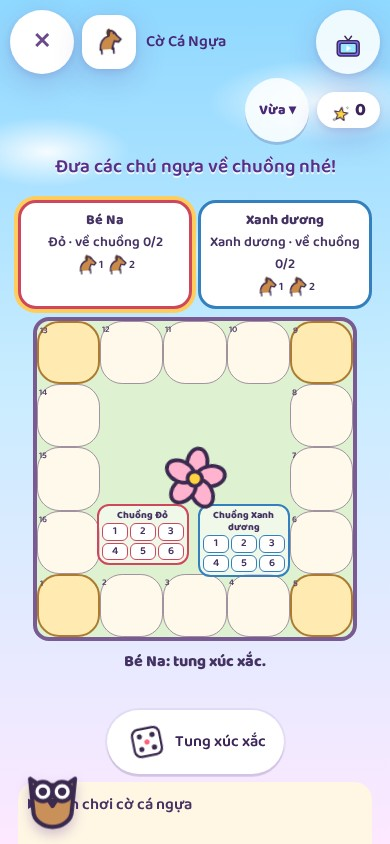
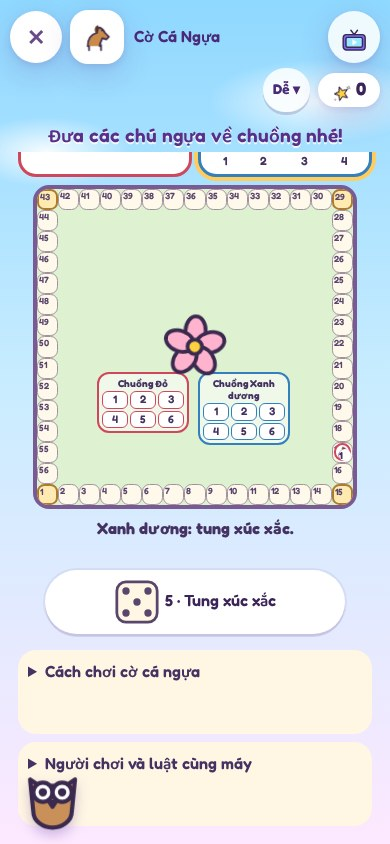
Add current folk-game photos, verified voice evidence and autoplay regression fixtures

diff --git a/docs/voice-recording-delta/README.md b/docs/voice-recording-delta/README.md
@@ -6,4 +6,4 @@ The recording job uses the shared registry: Azure female/male English and Vietna
 
 For the working-branch review, dispatch the already registered FPT arcade workflow with an inventory input; it calls the generic reviewed-public workflow from the same commit. Without an inventory, the legacy arcade workflow retains its existing behavior. The public workflow is also directly dispatchable once registered on main. Work/release/voices branches only; never main. Shared provider locking prevents simultaneous FPT batches. Results and partial originals are retained even if recording stops; a moved branch refuses an automatic update and leaves a review artifact.
 
-Current goat/Northern batch:34 complete fixed public lines (17 English,17 Vietnamese) plus4 reviewed English fragments for mixed-language playback;17 missing Lê Minh units,764 Vietnamese characters;76 missing Azure files (including the English fragments). The fragments have different speech IDs from the complete lines and are intentional, not duplicate recordings. New recordings, final audio decode/coverage and human listening are not yet complete. No provider key enters the browser, source, inventory or artifact. Family questions, answers and child names are excluded.
+Current goat/Northern batch:34 complete fixed public lines (17 English,17 Vietnamese) plus4 reviewed English fragments for mixed-language playback;17 missing Lê Minh units,764 Vietnamese characters;76 missing Azure files (including the English fragments). The fragments have different speech IDs from the complete lines and are intentional, not duplicate recordings. Recording run40481288711 completed successfully at source bae2862c2. Commit842cb7ac6 adds76 Azure files and17 Lê Minh files. All93 delivery assets were fully decoded and verified32kbps/16kHz/mono; full voice coverage and provider routing passed. Originals and receipts are retained under temp/fpt-public-delta. Human listening remains pending. No provider key enters the browser, source, inventory or artifact. Family questions, answers and child names are excluded.

diff --git a/docs/goat-review-20261027/README.md b/docs/goat-review-20261027/README.md
@@ -4,4 +4,4 @@
 
 The haystack guessing puzzle is replaced with children taking turns as a virtual blindfolded seeker inside a circle. Listen gives a real animal call plus accessible direction/range cues; guide the seeker with 64px direction buttons and catch only when close. A caught friend becomes the next seeker. Three rounds; no time limit, losing state or physical blindfold requirement. Original SVG child illustrations; English and Vietnamese.
 
-Pure core tests passed5/5 in the helper audit. Browser check passes110s: three rounds completed using visible controls in all six device/language layouts, 64px targets, nearby-only catches and gameplay-plan cleanup. Captures reviewed on phone/tablet/computer in both languages. Additional keyboard/listening review and recorded speech coverage remain pending. New fixed public speech is frozen in docs/voice-recording-delta/goat-northern-20261027.json for missing-only Azure/FPT recording. Do not claim these new lines are recorded until the provider job and decode/coverage checks pass.
+Pure core tests passed5/5 in the helper audit. Browser check passes110s: three rounds completed using visible controls in all six device/language layouts, 64px targets, nearby-only catches and gameplay-plan cleanup. Captures reviewed on phone/tablet/computer in both languages. Additional keyboard/listening review and recorded speech coverage remain pending. New fixed public speech is recorded and verified by run40481288711; the batch is frozen in docs/voice-recording-delta/goat-northern-20261027.json for missing-only Azure/FPT recording. Provider routing, full decode and voice coverage passed; human listening remains pending.

diff --git a/docs/tienlen-north-review-20261027/README.md b/docs/tienlen-north-review-20261027/README.md
@@ -8,6 +8,6 @@ Selected Northern conventions: spades < clubs < diamonds < hearts; singles and s
 
 This remains a child-friendly adaptation: no betting, final-two/four-of-a-kind fines or disqualification. The game now explicitly explains that limit. Regional house rules vary; do not describe this as every Northern variant.
 
-Sources reviewed: https://vi.wikipedia.org/wiki/Ti%E1%BA%BFn_l%C3%AAn (Northern section, article itself flags lack of citations), https://www.pagat.com/climbing/thirteen.html (general/Southern context, not independent proof of Northern specifics). Independent Northern source confirmation is still pending, as is human rules review. New corrected introduction needs Azure/FPT recording before release.
+Sources reviewed: https://vi.wikipedia.org/wiki/Ti%E1%BA%BFn_l%C3%AAn (Northern section, article itself flags lack of citations), https://www.pagat.com/climbing/thirteen.html (general/Southern context, not independent proof of Northern specifics). Independent Northern source confirmation is still pending, as is human rules review. The corrected introduction and required English mixed-language fragments were recorded and fully decoded in run40481288711; human listening remains pending.
 
 Dedicated tests cover every ordinary pair colour combination, all twos suit comparisons, matching/mismatched triples and runs, quads cutting twos, Southern compatibility and independent bot table modes.

diff --git a/docs/autoplay-review-20261027/README.md b/docs/autoplay-review-20261027/README.md
@@ -6,4 +6,4 @@ HUD ResizeObserver schedules coalesced layout writes in the next animation frame
 
 Autoplay previously enumerated Studio-disabled fruit games and then reported their correct refusal as failed launches. Step selection and execution now respect the same availability predicates as game launch; enabled games still must open their own matching game window. Fruit Bar planner uses visible solo/counter/ready/next controls in its separate modal.
 
-Still pending: enabled and disabled browser fixtures, actual autoplay completion, unsupported older games/quest paths, and independent checks of genuine enabled-launch failures. Do not label all existing reports as false positives.
+Additional visible-input planners cover bunny, Mr Wolf, shuttlecock, marbles and balloon; tug already had a plan. A focused browser check passed141s: all six completed using visible buttons or pointer gestures, with no direct game-state changes. Studio enabled/disabled launch and exact-error classification fixtures are being checked separately. Full in-world autoplay paths, timed interaction under the real robot and quest-path reports remain under review. Do not label all existing reports as false positives.
